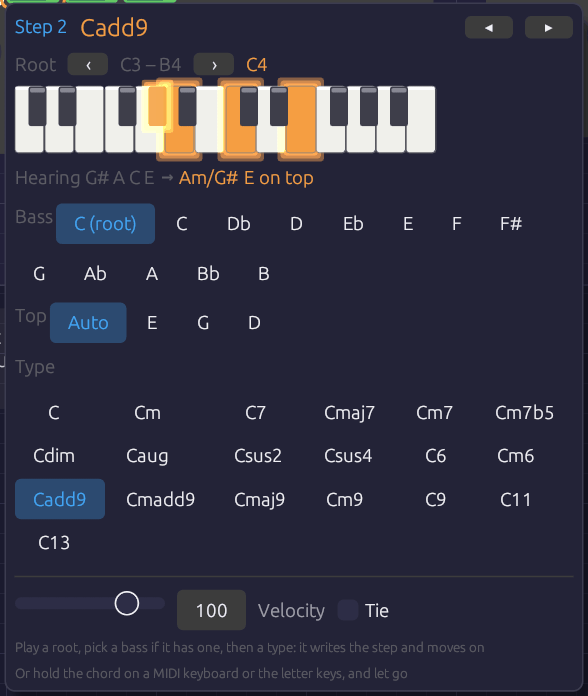
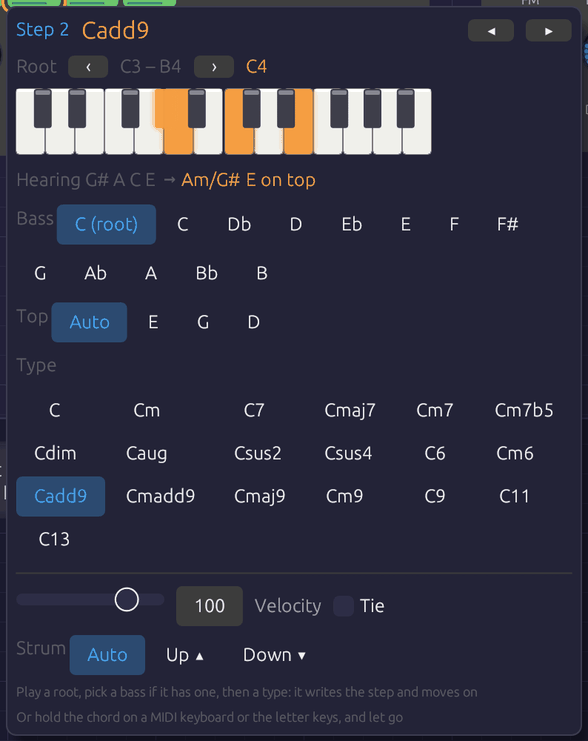
[Docs] Chord Sequencer: re-shoot the played-chord picture with its Strum row
- chord-sequencer-play.png predated the popover's Strum row (#150). Re-shot
  the same moment: Afterglow's step 2 (Cadd9) open, G# A C E held on the
  letter keys, "Hearing G# A C E → Am/G# E on top", with Strum on Auto
  below Velocity
- manual_images.py now shoots it, so it can be re-shot and --check'd with
  the interface pictures: aimed at the steps, right-clicked open, the keys
  held by cue

Closes #198

diff --git a/tools/showcase/manual_images.py b/tools/showcase/manual_images.py
@@ -1,5 +1,6 @@
-"""Re-shoots the manual's interface pictures: the window, its menus and the
-tutorial's finished patch, each played and posed by a capture script.
+"""Re-shoots the manual's interface pictures: the window, its menus, the
+tutorial's finished patch and a chord played into the Chord Sequencer's
+popover, each played and posed by a capture script.
 
     python tools/showcase/manual_images.py [name ...]
     python tools/showcase/manual_images.py --check [name ...]
@@ -108,6 +109,26 @@ PICTURES = {
             0.5 rclick
             1.0 move 981 262 0.4
             1.6 wait
+        """,
+    ),
+    # Afterglow's Chord Sequencer, its steps aimed to y 262 so the popover
+    # opens below them in full: step 2 (Cadd9) right-clicked open and
+    # G# A C E held into it on the letter keys (H N , /), heard as Am/G#
+    # with E on top. Stopped, so the step highlight stays still
+    "chord-sequencer-play": dict(
+        patch="patches/afterglow.json",
+        crop=(745, 274, 1142, 774),
+        width=588,
+        cues="""
+            -3.0 aim 450 1900 1.0 0.0
+            -2.0 move 767 262 0.3
+            -1.5 rclick
+            -1.2 move 1500 900 0.2
+            -1.0 key H 3.0
+            -1.0 key N 3.0
+            -1.0 key Comma 3.0
+            -1.0 key Slash 3.0
+            0.0 wait
         """,
     ),
     "tutorial-complete-patch": dict(

diff --git a/CLAUDE.md b/CLAUDE.md
@@ -239,8 +239,9 @@ python tools/showcase/check_layout.py
 # an embed has no whole-patch still. --check lists the stale ones instead
 python tools/showcase/recipe_images.py [name ...]
 python tools/showcase/recipe_images.py --check
-# The same for the interface pictures and the tutorial's finished patch (interface-*.png,
-# tutorial-complete-patch.png), each posed by a short cue script
+# The same for the interface pictures, the tutorial's finished patch and a chord played into
+# the Chord Sequencer (interface-*.png, tutorial-complete-patch.png, chord-sequencer-play.png),
+# each posed by a short cue script
 python tools/showcase/manual_images.py [name ...]   # --check lists the stale ones
 # ...and the module close-ups (module-<name>.png), each posed by a small patch in
 # tools/showcase/modules/. Only the Sampler so far: #199 brings the rest across
